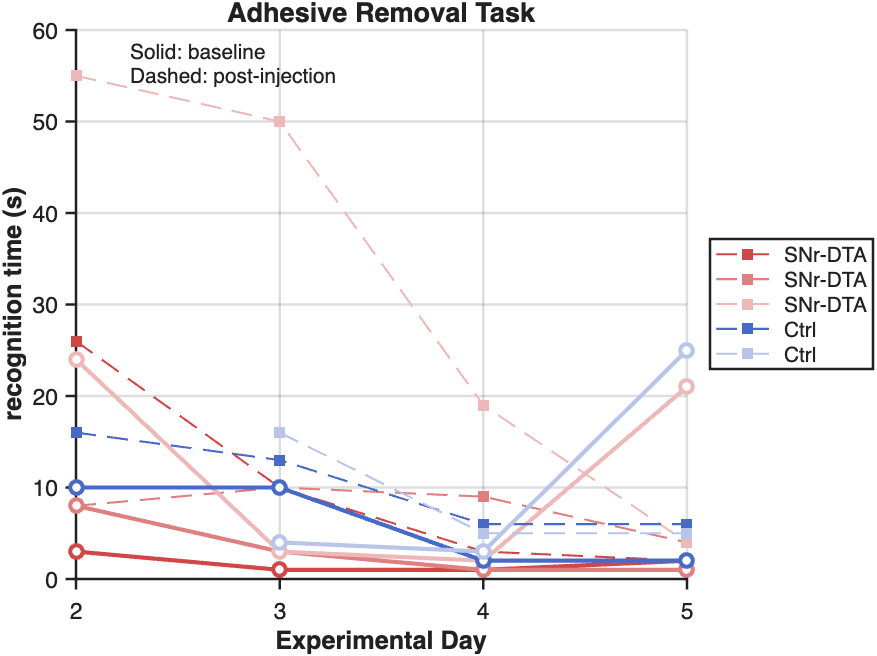
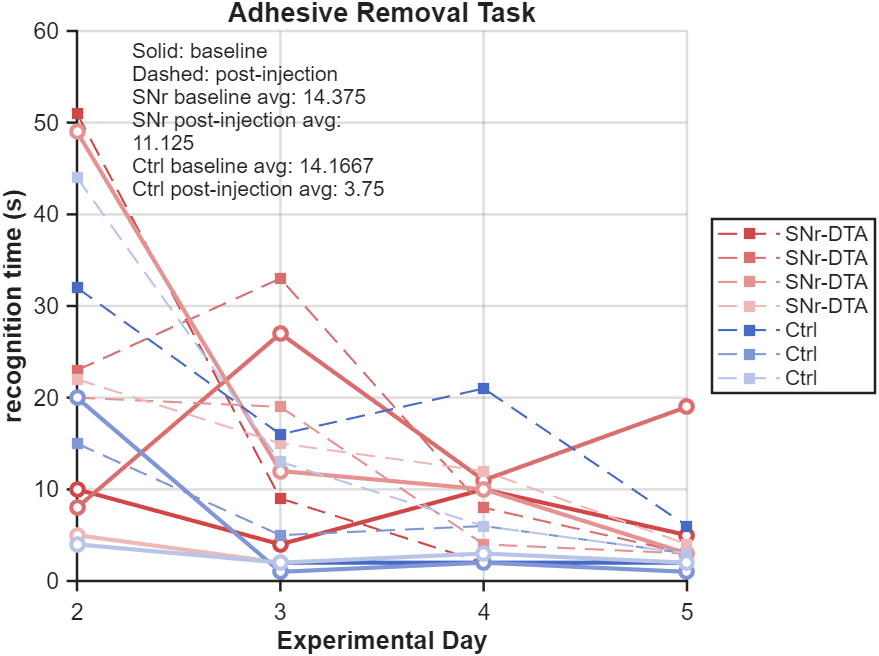
grid added avg

Changed region(s): [[0.0, 0.0, 1.0, 1.0], [0.7697, 0.1829, 0.8005, 0.2134], [0.5849, 0.6402, 0.6157, 0.6707]]

diff --git a/adhesive/line_plot_caseANDcontrol/line_plot.m b/adhesive/line_plot_caseANDcontrol/line_plot.m
@@ -11,10 +11,11 @@ clear; clc;
 workDir = fileparts(mfilename('fullpath'));
 %time_label = "recognition";
 time_label = "removal";
+cohort_name_if_you_have = "p1c3";
 fileName = time_label + '_time_across_days.csv';
 yaxis_label = time_label + " time (s)";
 
-data = readtable(fullfile(workDir, fileName));
+data = readtable(fullfile(workDir, cohort_name_if_you_have,fileName));
 %% -------------------- Preprocessing --------------------
 mouseIDs = unique(data.ID, 'stable');
 nMice    = numel(mouseIDs);
@@ -28,8 +29,8 @@ for i = 1:nMice
 end
 
 % Base colors (RGB)
-nPath = min(3, nMice);
-nCtrl = min(2, max(nMice - nPath, 0));
+nPath = min(4, nMice);
+nCtrl = min(3, max(nMice - nPath, 0));
 basePath = [0.80 0.20 0.20];   % red family
 baseCtrl = [0.20 0.35 0.75];   % blue family
 % data.Group = "Path" or "Ctrl"
@@ -117,7 +118,12 @@ legend(hLegend, legendLabels, 'Location','eastoutside', 'FontSize',10);
 %% -------------------- Text Annotation --------------------
 annotation('textbox', [0.15 0.82 0.3 0.1], ...
     'String', {'Solid: baseline', ...
-               'Dashed: post-injection'}, ...
+               'Dashed: post-injection', ...
+               'SNr baseline avg: '+ string(mean(data.Trail1(isPath))),...
+               'SNr post-injection avg: '+ string(mean(data.Trail2(isPath))),...
+               'Ctrl baseline avg: '+ string(mean(data.Trail1(isCtrl))), ...
+               'Ctrl post-injection avg: '+ string(mean(data.Trail2(isCtrl)));
+}, ...
     'EdgeColor','none', ...
     'FontSize',10);
 
